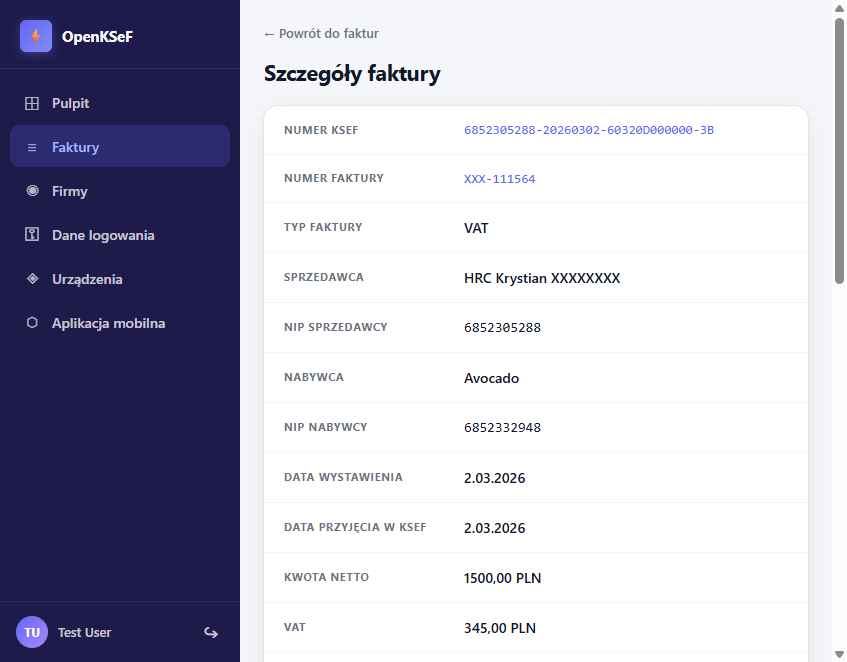
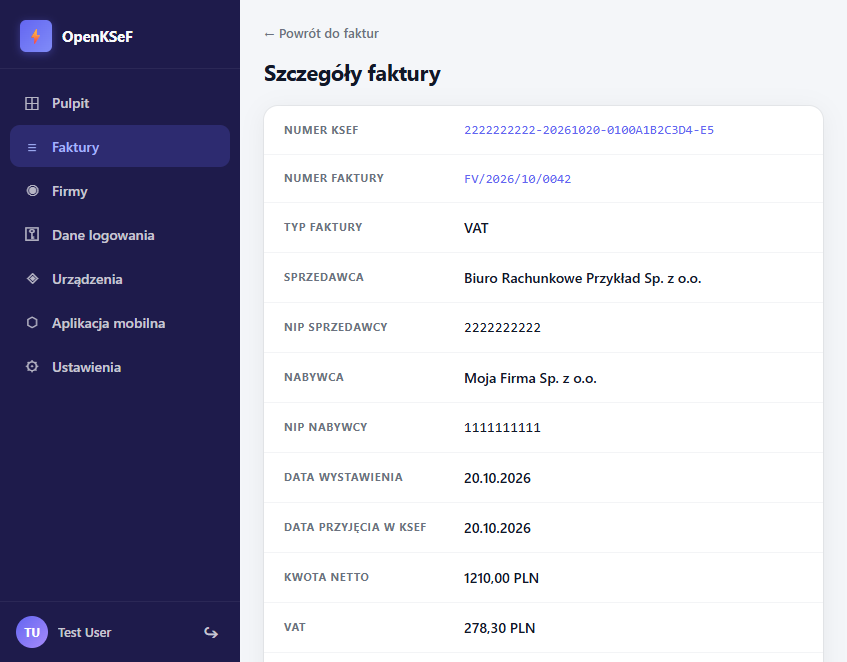
docs: catch up with features shipped since March
New Faktury page (list, line items, payment status, transfer/QR,
force sync, full resync), push reliability and recipients, mobile
1.0.4 features, privacy policy data list, .NET 10. Fresh portal
screenshots with fictional data.

diff --git a/src/components/TechStack/index.tsx b/src/components/TechStack/index.tsx
@@ -9,7 +9,7 @@ type TechItem = {
 };
 
 const techList: TechItem[] = [
-  {icon: '🟣', name: '.NET 8', role: 'Backend'},
+  {icon: '🟣', name: '.NET 10', role: 'Backend'},
   {icon: '⚛', name: 'React 19', role: 'Portal'},
   {icon: '📱', name: '.NET MAUI', role: 'Mobile'},
   {icon: '🐘', name: 'PostgreSQL', role: 'Baza danych'},

diff --git a/sidebars.ts b/sidebars.ts
@@ -14,6 +14,7 @@ const sidebars: SidebarsConfig = {
     },
     'admin-setup',
     'logowanie',
+    'faktury',
     'powiadomienia-push',
     'aplikacja-mobilna',
     {

diff --git a/i18n/en/docusaurus-plugin-content-docs/current/faktury.md b/i18n/en/docusaurus-plugin-content-docs/current/faktury.md
@@ -1,0 +1,87 @@
+---
+sidebar_position: 5
+title: Invoices
+---
+
+# Invoices
+
+OpenKSeF downloads from KSeF the invoices in which your company is the buyer (cost invoices). In the portal you find them under **Faktury** (Invoices); in the mobile app on the **Faktury** screen.
+
+## Invoice list
+
+![Invoice list](/img/screenshots/portal/invoices.png)
+
+- The first column **Nr faktury** is the number assigned by the seller (e.g. `FV/2026/10/0042`). If the invoice has none, the KSeF number is shown.
+- The **Numer KSeF** column is the identifier assigned by KSeF.
+- The **Status** column shows whether the invoice is marked as paid.
+- Filters: company, issue date range, invoices per page.
+
+## Invoice details
+
+Click an invoice in the list to see its details: numbers, seller and buyer, dates, net / VAT / gross amounts and payment status.
+
+![Invoice details](/img/screenshots/portal/invoice-detail.png)
+
+### Line items
+
+Below the invoice data there is a **Pozycje faktury** (line items) table with the invoice rows (`FaWiersz`): name, unit, quantity, net and gross unit price, net / VAT / gross amounts and VAT rate.
+
+![Line items](/img/screenshots/portal/invoice-lines.png)
+
+- Most invoices carry only net prices and the VAT rate. In that case the line's gross price and VAT are **calculated** by OpenKSeF from the rate (net × rate). They may differ by a few grosze from the invoice, because the seller may have calculated VAT on the total rather than per line. The invoice header amounts are binding.
+- For non-numeric rates (e.g. `zw`, `oo`, `np I`, `np II`) line VAT is 0 and gross = net.
+- If the invoice in KSeF has no line items (e.g. some advance invoices), the table is not shown.
+- Invoices downloaded before this feature have no line items. Fill them in with a [full resync](#full-resync).
+
+### Payment status
+
+The **Oznacz jako opłaconą** (Mark as paid) button sets the invoice status to **Opłacona** (Paid) and stores the date. **Cofnij oznaczenie** (Undo) restores **Nieopłacona** (Unpaid).
+
+![Payment status](/img/screenshots/portal/invoice-paid.png)
+
+:::info[Status only in OpenKSeF]
+The payment status is your note in OpenKSeF. It is not sent to KSeF or to your bank, and OpenKSeF does not check whether the transfer was made. Synchronization (including a full resync) does not change the payment status.
+:::
+
+You change the payment status in the portal. The mobile app does not show it.
+
+### Transfer details and QR code
+
+The **Dane do przelewu** (Transfer details) section shows the recipient, NIP, the seller's bank account (from the invoice in KSeF), amount and transfer title. **Kopiuj dane przelewu** copies them to the clipboard; the **QR code** (ZBP standard) can be scanned in a banking app.
+
+![Transfer details and QR code](/img/screenshots/portal/invoice-qr.png)
+
+The transfer title is just the seller's invoice number, e.g. `FV/2026/10/0042`. If the invoice has no seller number, the KSeF number is used. If the invoice has no bank account, **Nr rachunku** shows `brak` (none).
+
+## Synchronization with KSeF
+
+The Worker downloads new invoices automatically in the background, every 4 hours by default. The first synchronization of a new company downloads invoices from the last 6 months. You can also start a synchronization manually in the portal: **Dane logowania** (Credentials) > the company row.
+
+![Credentials -- synchronization](/img/screenshots/portal/credentials-resync.png)
+
+| Button | What it does | When to use |
+|--------|--------------|-------------|
+| **Wymuś synchronizację** (Force sync) | Downloads invoices that appeared in KSeF since the last synchronization | You don't want to wait for the automatic synchronization |
+| **Pełna resynchronizacja** (Full resync) | Downloads all of the company's invoices from KSeF again and overwrites their data (including line items and bank account) | Older invoices lack line items or bank account |
+
+### Full resync
+
+The portal asks for confirmation before it starts.
+
+![Full resync confirmation](/img/screenshots/portal/credentials-resync-confirm.png)
+
+- Covers the whole company history: from the oldest invoice stored in OpenKSeF, not only the initial sync window.
+- Takes longer than a regular sync, because every invoice is downloaded from KSeF again.
+- If it fails, existing data stays unchanged. It is safe to retry.
+- Sends no push notifications for invoices it finds. The first synchronization of a new company behaves the same way.
+- Invoice payment status is kept.
+
+## Mobile app
+
+In the mobile app (version 1.0.4 and later):
+
+- the invoice list shows the seller's invoice number, or the KSeF number when there is none,
+- invoice details show **Numer faktury**, **Numer KSeF** and a **Pozycje faktury** card (name, quantity × unit, net unit price, net / VAT / gross amounts),
+- the transfer title in copied transfer details and in the QR code is just the invoice number.
+
+More about the app: [Mobile app](aplikacja-mobilna).

diff --git a/docs/faktury.md b/docs/faktury.md
@@ -1,0 +1,87 @@
+---
+sidebar_position: 5
+title: Faktury
+---
+
+# Faktury
+
+OpenKSeF pobiera z KSeF faktury, w których Twoja firma jest nabywcą (faktury kosztowe). W portalu znajdziesz je w menu **Faktury**, a w aplikacji mobilnej na ekranie **Faktury**.
+
+## Lista faktur
+
+![Lista faktur](/img/screenshots/portal/invoices.png)
+
+- Pierwsza kolumna **Nr faktury** to numer nadany przez sprzedawcę (np. `FV/2026/10/0042`). Jeśli faktura go nie ma, wyświetlany jest numer KSeF.
+- Kolumna **Numer KSeF** to identyfikator nadany przez KSeF.
+- Kolumna **Status** pokazuje, czy faktura jest oznaczona jako opłacona.
+- Filtry: firma, zakres dat wystawienia, liczba faktur na stronie.
+
+## Szczegóły faktury
+
+Kliknij fakturę na liście, aby zobaczyć jej szczegóły: numery, sprzedawcę i nabywcę, daty, kwoty netto / VAT / brutto oraz status płatności.
+
+![Szczegóły faktury](/img/screenshots/portal/invoice-detail.png)
+
+### Pozycje faktury
+
+Pod danymi faktury jest tabela **Pozycje faktury** z wierszami faktury (`FaWiersz`): nazwa, jednostka miary, ilość, cena netto i brutto, wartości netto / VAT / brutto oraz stawka VAT.
+
+![Pozycje faktury](/img/screenshots/portal/invoice-lines.png)
+
+- Większość faktur zawiera tylko ceny netto i stawkę VAT. Wtedy cena brutto i VAT pozycji są **wyliczane** przez OpenKSeF ze stawki (netto × stawka). Mogą się różnić o grosze od kwot na fakturze, bo sprzedawca mógł liczyć VAT od sumy, a nie od każdej pozycji. Wiążące są kwoty z nagłówka faktury.
+- Dla stawek nieliczbowych (np. `zw`, `oo`, `np I`, `np II`) VAT pozycji wynosi 0, a brutto = netto.
+- Jeśli faktura w KSeF nie ma pozycji (np. niektóre faktury zaliczkowe), tabela nie jest wyświetlana.
+- Faktury pobrane przed wprowadzeniem tej funkcji nie mają pozycji. Uzupełnisz je [pełną resynchronizacją](#pełna-resynchronizacja).
+
+### Status płatności
+
+Przycisk **Oznacz jako opłaconą** zmienia status faktury na **Opłacona** i zapisuje datę oznaczenia. **Cofnij oznaczenie** przywraca status **Nieopłacona**.
+
+![Status płatności](/img/screenshots/portal/invoice-paid.png)
+
+:::info[Status tylko w OpenKSeF]
+Status płatności to Twoja notatka w OpenKSeF. Nie jest wysyłany do KSeF ani do banku, a OpenKSeF nie sprawdza, czy przelew został wykonany. Synchronizacja (także pełna) nie zmienia statusu płatności.
+:::
+
+Status płatności zmienisz w portalu. Aplikacja mobilna go nie pokazuje.
+
+### Dane do przelewu i kod QR
+
+Sekcja **Dane do przelewu** zawiera odbiorcę, NIP, numer rachunku sprzedawcy (z faktury w KSeF), kwotę i tytuł przelewu. **Kopiuj dane przelewu** kopiuje je do schowka, a **kod QR** (standard ZBP) zeskanujesz w aplikacji bankowej.
+
+![Dane do przelewu i kod QR](/img/screenshots/portal/invoice-qr.png)
+
+Tytuł przelewu to sam numer faktury sprzedawcy, np. `FV/2026/10/0042`. Jeśli faktura nie ma numeru sprzedawcy, tytułem jest numer KSeF. Gdy faktura nie zawiera numeru rachunku, pole **Nr rachunku** pokazuje `brak`.
+
+## Synchronizacja z KSeF
+
+Worker pobiera nowe faktury automatycznie w tle, domyślnie co 4 godziny. Pierwsza synchronizacja nowej firmy pobiera faktury z ostatnich 6 miesięcy. Synchronizację uruchomisz też ręcznie w portalu: **Dane logowania** > wiersz firmy.
+
+![Dane logowania -- synchronizacja](/img/screenshots/portal/credentials-resync.png)
+
+| Przycisk | Co robi | Kiedy użyć |
+|----------|---------|------------|
+| **Wymuś synchronizację** | Pobiera faktury, które pojawiły się w KSeF od ostatniej synchronizacji | Nie chcesz czekać na automatyczną synchronizację |
+| **Pełna resynchronizacja** | Pobiera ponownie wszystkie faktury firmy z KSeF i nadpisuje ich dane (w tym pozycje i numer rachunku) | Brakuje pozycji lub numeru rachunku na starszych fakturach |
+
+### Pełna resynchronizacja
+
+Przed uruchomieniem portal prosi o potwierdzenie.
+
+![Potwierdzenie pełnej resynchronizacji](/img/screenshots/portal/credentials-resync-confirm.png)
+
+- Obejmuje całą historię firmy: od najstarszej faktury zapisanej w OpenKSeF, a nie tylko z okresu synchronizacji początkowej.
+- Trwa dłużej niż zwykła synchronizacja, bo każda faktura jest pobierana z KSeF od nowa.
+- Jeśli się nie powiedzie, dotychczasowe dane zostają bez zmian. Możesz ją bezpiecznie powtórzyć.
+- Nie wysyła powiadomień push o fakturach, które się pojawią. Tak samo działa pierwsza synchronizacja nowej firmy.
+- Status płatności faktur zostaje zachowany.
+
+## Aplikacja mobilna
+
+W aplikacji mobilnej (od wersji 1.0.4):
+
+- lista faktur pokazuje numer faktury sprzedawcy, a gdy go brak -- numer KSeF,
+- szczegóły faktury zawierają **Numer faktury**, **Numer KSeF** i kartę **Pozycje faktury** (nazwa, ilość × jednostka, cena netto, kwoty netto / VAT / brutto),
+- tytuł przelewu przy kopiowaniu danych i w kodzie QR to sam numer faktury.
+
+Więcej o aplikacji: [Aplikacja mobilna](aplikacja-mobilna).

diff --git a/docs/powiadomienia-push.md b/docs/powiadomienia-push.md
@@ -35,6 +35,17 @@ graph LR
 
 Większość instalacji potrzebuje tylko **SignalR + Relay**. Nie wymaga to konfiguracji Firebase.
 
+## Kto dostaje powiadomienie
+
+- Powiadomienie o nowej fakturze trafia na urządzenia użytkownika, do którego należy firma. Inni użytkownicy instancji go nie dostają.
+- Urządzenie zarejestrowane w aplikacji mobilnej otrzymuje powiadomienia o wszystkich firmach swojego użytkownika.
+- Pierwsza synchronizacja nowej firmy i [pełna resynchronizacja](faktury#pełna-resynchronizacja) nie wysyłają powiadomień, nawet jeśli pobiorą wiele faktur.
+
+## Niezawodność
+
+- Chwilowa niedostępność relay, Firebase lub APNs nie usuwa rejestracji urządzenia. Urządzenie jest usuwane z listy tylko wtedy, gdy FCM/APNs jednoznacznie odrzuci jego token (np. po odinstalowaniu aplikacji).
+- Aplikacja mobilna (od wersji 1.0.4) sprawdza po zalogowaniu, czy jej urządzenie jest nadal zarejestrowane na serwerze, i w razie potrzeby rejestruje je ponownie.
+
 ## Konfiguracja
 
 W [kreatorze konfiguracji](admin-setup) (Krok 5 -- Integracje):
@@ -63,6 +74,8 @@ Komunikacja z relay jest zabezpieczona trzema warstwami:
 | Objaw | Rozwiązanie |
 |-------|-------------|
 | Brak powiadomień | Włącz relay w kreatorze |
+| Brak powiadomień, urządzenie nie widnieje w **Urządzenia** | W aplikacji mobilnej: **Konto** > wyłącz i włącz **Powiadomienia push**. Aplikacja zarejestruje urządzenie ponownie |
+| Brak powiadomień po pełnej resynchronizacji | Zamierzone -- pełna resynchronizacja nie wysyła powiadomień |
 | SignalR nie łączy | Zaloguj się ponownie w aplikacji |
 | Relay zwraca 401 | Instancja niezarejestrowana -- przejdź do Ustawienia > Powiadomienia push > Zarejestruj ponownie |
 | Relay zwraca 403 | Instancja wyłączona przez administratora relay |

diff --git a/docs/intro.md b/docs/intro.md
@@ -24,7 +24,8 @@ OpenKSeF jest przeznaczony dla:
 
 | Funkcja | Opis |
 |---------|------|
-| **Synchronizacja faktur** | Automatyczne pobieranie faktur z KSeF w tle |
+| **Synchronizacja faktur** | Automatyczne pobieranie faktur z KSeF w tle, ręczna i pełna resynchronizacja |
+| **Faktury** | Szczegóły z pozycjami, status płatności, dane do przelewu i kod QR -- zobacz [Faktury](faktury) |
 | **Portal webowy** | React SPA z dashboardem, listą faktur, zarządzaniem firmami |
 | **Aplikacja mobilna** | .NET MAUI na Android i iOS z powiadomieniami push |
 | **Multi-tenant** | Wiele firm na jednej instancji, izolacja danych per użytkownik |
@@ -40,7 +41,7 @@ OpenKSeF jest przeznaczony dla:
 │                                                  │
 │  ┌──────────┐  ┌──────────┐  ┌───────────────┐ │
 │  │   API    │  │  Worker  │  │ Portal (React)│ │
-│  │ (.NET 8) │  │ (.NET 8) │  │               │ │
+│  │(.NET 10) │  │(.NET 10) │  │               │ │
 │  └────┬─────┘  └────┬─────┘  └───────────────┘ │
 │       │              │                           │
 │  ┌────┴──────────────┴────┐  ┌───────────────┐ │
@@ -82,3 +83,4 @@ OpenKSeF jest przeznaczony dla:
 - [Wymagania systemowe](instalacja/wymagania) -- co potrzebujesz przed instalacją
 - [Szybki start](instalacja/szybki-start) -- uruchomienie w 5 minut
 - [Kreator konfiguracji](admin-setup) -- krok po kroku przez wizard
+- [Faktury](faktury) -- lista, szczegóły, status płatności, synchronizacja

diff --git a/i18n/en/docusaurus-plugin-content-docs/current/intro.md b/i18n/en/docusaurus-plugin-content-docs/current/intro.md
@@ -24,7 +24,8 @@ OpenKSeF is designed for:
 
 | Feature | Description |
 |---------|-------------|
-| **Invoice synchronization** | Automatic background downloading of invoices from KSeF |
+| **Invoice synchronization** | Automatic background downloading of invoices from KSeF, manual and full resync |
+| **Invoices** | Details with line items, payment status, transfer details and QR code -- see [Invoices](faktury) |
 | **Web portal** | React SPA with dashboard, invoice list, company management |
 | **Mobile app** | .NET MAUI for Android and iOS with push notifications |
 | **Multi-tenant** | Multiple companies on a single instance, per-user data isolation |
@@ -40,7 +41,7 @@ OpenKSeF is designed for:
 │                                                  │
 │  ┌──────────┐  ┌──────────┐  ┌───────────────┐ │
 │  │   API    │  │  Worker  │  │ Portal (React)│ │
-│  │ (.NET 8) │  │ (.NET 8) │  │               │ │
+│  │(.NET 10) │  │(.NET 10) │  │               │ │
 │  └────┬─────┘  └────┬─────┘  └───────────────┘ │
 │       │              │                           │
 │  ┌────┴──────────────┴────┐  ┌───────────────┐ │
@@ -82,3 +83,4 @@ OpenKSeF is designed for:
 - [System requirements](instalacja/wymagania) -- what you need before installation
 - [Quick start](instalacja/szybki-start) -- up and running in 5 minutes
 - [Setup wizard](admin-setup) -- step-by-step configuration
+- [Invoices](faktury) -- list, details, payment status, synchronization

diff --git a/i18n/en/docusaurus-plugin-content-docs/current/powiadomienia-push.md b/i18n/en/docusaurus-plugin-content-docs/current/powiadomienia-push.md
@@ -35,6 +35,17 @@ graph LR
 
 Most installations need only **SignalR + Relay**. No Firebase setup required.
 
+## Who gets a notification
+
+- A new-invoice notification goes to the devices of the user who owns the company. Other users of the instance do not get it.
+- A device registered in the mobile app receives notifications for all companies of its user.
+- The first synchronization of a new company and a [full resync](faktury#full-resync) send no notifications, even if they download many invoices.
+
+## Reliability
+
+- A temporary outage of the relay, Firebase or APNs does not remove the device registration. A device is removed from the list only when FCM/APNs explicitly rejects its token (e.g. after the app is uninstalled).
+- The mobile app (version 1.0.4 and later) checks after login whether its device is still registered on the server and registers it again if needed.
+
 ## Configuration
 
 In the [setup wizard](admin-setup) (Step 5 -- Integrations):
@@ -63,6 +74,8 @@ No keys are stored in source code -- they are generated at registration time and
 | Symptom | Solution |
 |---------|----------|
 | No notifications | Enable relay in the wizard |
+| No notifications, device missing from **Devices** | In the mobile app: **Konto** (Account) > turn **Powiadomienia push** off and on. The app registers the device again |
+| No notifications after a full resync | Intended -- a full resync sends no notifications |
 | SignalR won't connect | Log in again in the app |
 | Relay returns 401 | Instance not registered -- go to Settings > Push notifications > Re-register |
 | Relay returns 403 | Instance disabled by relay admin |

diff --git a/docs/polityka-prywatnosci.md b/docs/polityka-prywatnosci.md
@@ -5,7 +5,7 @@ title: Polityka prywatności
 
 # Polityka prywatności
 
-*Ostatnia aktualizacja: 19 marca 2026 r.*
+*Ostatnia aktualizacja: 28 października 2026 r.*
 
 OpenKSeF to oprogramowanie open-source do synchronizacji i przeglądania faktur z Krajowego Systemu e-Faktur (KSeF). Niniejsza polityka prywatności opisuje, jakie dane przetwarzamy i w jaki sposób je chronimy.
 
@@ -37,7 +37,8 @@ Kontakt: [krystian@mikrut.dev](mailto:krystian@mikrut.dev)
 
 ### Dane faktur
 
-- Nagłówki faktur pobrane z KSeF (numer, kwoty, daty, dane kontrahentów)
+- Dane faktur pobrane z KSeF: nagłówek (numer, kwoty, daty, dane kontrahentów, numer rachunku sprzedawcy) i pozycje faktury (nazwa towaru lub usługi, ilość, ceny, stawka VAT)
+- Status płatności faktury ustawiony przez użytkownika
 - Faktury są przechowywane w bazie danych instancji
 
 ### Dane techniczne
@@ -53,7 +54,7 @@ Kontakt: [krystian@mikrut.dev](mailto:krystian@mikrut.dev)
 |------|-----|-----------------|
 | E-mail, identyfikator OIDC | Uwierzytelnianie i obsługa konta | Umowa (art. 6 ust. 1 lit. b RODO) |
 | NIP, nazwa firmy, token KSeF | Synchronizacja faktur z KSeF | Umowa (art. 6 ust. 1 lit. b RODO) |
-| Nagłówki faktur | Wyświetlanie i przeszukiwanie faktur | Umowa (art. 6 ust. 1 lit. b RODO) |
+| Dane faktur, status płatności | Wyświetlanie i przeszukiwanie faktur, dane do przelewu | Umowa (art. 6 ust. 1 lit. b RODO) |
 | Token urządzenia (FCM/APNs) | Dostarczanie powiadomień push | Zgoda (art. 6 ust. 1 lit. a RODO) |
 
 ---

diff --git a/docs/aplikacja-mobilna.md b/docs/aplikacja-mobilna.md
@@ -10,6 +10,7 @@ OpenKSeF Mobile to aplikacja .NET MAUI na Android i iOS. Umożliwia przeglądani
 ## Funkcje
 
 - Przeglądanie faktur z KSeF (lista, szczegóły, filtrowanie)
+- Numer faktury sprzedawcy i pozycje faktury w szczegółach (zobacz [Faktury](faktury#aplikacja-mobilna))
 - Zarządzanie firmami (tenantami)
 - Powiadomienia push (SignalR + relay/Firebase)
 - Logowanie przez Keycloak (OIDC)
@@ -49,7 +50,7 @@ Android wymaga **HTTPS** do uwierzytelniania OIDC (WebAuthenticator). Dla testó
 
 ### Wymagania
 
-- .NET 8 SDK
+- .NET 10 SDK
 - Android SDK (API 34+)
 - Visual Studio 2022 lub VS Code z MAUI workload
 
@@ -57,10 +58,10 @@ Android wymaga **HTTPS** do uwierzytelniania OIDC (WebAuthenticator). Dla testó
 
 ```bash
 # Android
-dotnet build src/OpenKSeF.Mobile/OpenKSeF.Mobile.csproj -f net8.0-android
+dotnet build src/OpenKSeF.Mobile/OpenKSeF.Mobile.csproj -f net10.0-android
 
 # iOS (wymaga macOS)
-dotnet build src/OpenKSeF.Mobile/OpenKSeF.Mobile.csproj -f net8.0-ios
+dotnet build src/OpenKSeF.Mobile/OpenKSeF.Mobile.csproj -f net10.0-ios
 ```
 
 ### Konfiguracja Firebase (opcjonalnie)

diff --git a/i18n/en/docusaurus-plugin-content-docs/current/aplikacja-mobilna.md b/i18n/en/docusaurus-plugin-content-docs/current/aplikacja-mobilna.md
@@ -10,6 +10,7 @@ OpenKSeF Mobile is a .NET MAUI app for Android and iOS. It allows browsing invoi
 ## Features
 
 - Browse invoices from KSeF (list, details, filtering)
+- Seller invoice number and line items in invoice details (see [Invoices](faktury#mobile-app))
 - Manage companies (tenants)
 - Push notifications (SignalR + relay/Firebase)
 - Login via Keycloak (OIDC)
@@ -49,7 +50,7 @@ Android requires **HTTPS** for OIDC authentication (WebAuthenticator). For local
 
 ### Requirements
 
-- .NET 8 SDK
+- .NET 10 SDK
 - Android SDK (API 34+)
 - Visual Studio 2022 or VS Code with MAUI workload
 
@@ -57,10 +58,10 @@ Android requires **HTTPS** for OIDC authentication (WebAuthenticator). For local
 
 ```bash
 # Android
-dotnet build src/OpenKSeF.Mobile/OpenKSeF.Mobile.csproj -f net8.0-android
+dotnet build src/OpenKSeF.Mobile/OpenKSeF.Mobile.csproj -f net10.0-android
 
 # iOS (requires macOS)
-dotnet build src/OpenKSeF.Mobile/OpenKSeF.Mobile.csproj -f net8.0-ios
+dotnet build src/OpenKSeF.Mobile/OpenKSeF.Mobile.csproj -f net10.0-ios
 ```
 
 ### Firebase configuration (optional)

diff --git a/i18n/en/docusaurus-plugin-content-docs/current/instalacja/konfiguracja.md b/i18n/en/docusaurus-plugin-content-docs/current/instalacja/konfiguracja.md
@@ -23,8 +23,8 @@ Application images are published on GitHub Container Registry (`ghcr.io/open-kse
 |-------|-------------|
 | `keycloak/keycloak:26.0` | Keycloak 26 (official image). The `openksef` realm and OAuth clients are created by the [setup wizard](../admin-setup) |
 | `openksef-gateway` | Nginx with built-in reverse proxy configuration (portal `/`, API `/api/*`, Keycloak `/auth/*`) |
-| `openksef-api` | .NET 8 backend |
-| `openksef-worker` | .NET 8 worker (background invoice synchronization) |
+| `openksef-api` | .NET 10 backend |
+| `openksef-worker` | .NET 10 worker (background invoice synchronization) |
 | `openksef-portal-web` | React portal (SPA) |
 
 The gateway has its configuration built into the image. No need to mount config files or volumes (except the PostgreSQL data volume).
